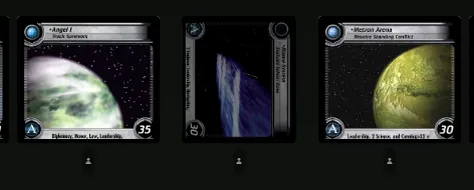
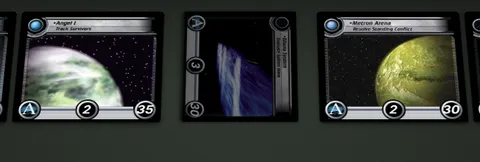
Scripts and docs: remove the last references to the away team badge of an empty away team (#1803)
* Scripts and docs: drop the away team badge of an empty away team from the clip crop and the glossary (#1573)

* fix: re-record the touch complete-mission clip with the corrected crop (follow-up for #1803)

Claude-Session: https://claude.ai/code/session_01XYBhPKRujXGmn674TPqUWj

---------

diff --git a/docs/ubiquitous-language.md b/docs/ubiquitous-language.md
@@ -193,7 +193,7 @@ is "open" or "closed", never "stacked".
 | the five missions in a row | `MissionSlot`, `MISSION_SLOTS = 5` | The row always has five slots, even for a deck with fewer missions. See [section 7](#7-names-kept-and-why). |
 | a ship in line with a mission | `ShipRowLocation`, `zone: 'shipRow'` | Addressed by mission index. See [section 7](#7-names-kept-and-why). |
 | aboard a ship | `CrewLocation`, `zone: 'crew'`, `CardInstance.crew` | Addressed by the ship's own id, so a ship move keeps its crew. |
-| away team (personnel at a planet mission) | `MissionPileLocation`, pile `'awayTeam'`, `MissionSlot.awayTeam` | The pair of `crew`, the personnel aboard a ship. The drop target id is `mission-pile-awayTeam-<index>` and the label is "Away team". **The code uses the one name at every mission type**, so it reads wrong at a headquarters mission and at a space mission, where the rulebook has no away team. The owner accepts this: the pile is the same place at every mission, and one name is clearer than three. |
+| away team (personnel at a planet mission) | `MissionPileLocation`, pile `'awayTeam'`, `MissionSlot.awayTeam` | The pair of `crew`, the personnel aboard a ship. The drop target is the mission's bottom half, `mission-on-<index>`; `mission-pile-awayTeam-<index>` is the `data-testid` of the away team badge, which is not a drop target (#924) and shows only while the away team holds a card (#1565). The label is "Away team". **The code uses the one name at every mission type**, so it reads wrong at a headquarters mission and at a space mission, where the rulebook has no away team. The owner accepts this: the pile is the same place at every mission, and one name is clearer than three. |
 | overcome dilemmas beneath the mission | `MissionPileLocation`, pile `'underMission'` | The UI label is "Under the mission". On the table, a drop on the top half of the mission card, `mission-under-<index>` (#871, #917), puts a dilemma here. During a dilemma drag the half reads "Under", and "Overcome" in the facing phase of the attempt layout (#1424). |
 | play and place (a card placed on another card) | `PlacedOnLocation`, `CardInstance.placedOn`, `findPlacedOnTarget`, `placedOnTargets`, `targetId` | The code held the noun "host" for the card underneath. "Host" is not a rulebook word, so #840 removed it: every comment and label says "the card it is placed on", and no new noun took its place. The stack is one level deep. On the table, a drop on the bottom half of the mission card, `mission-on-<index>` (#871, #917), places a dilemma on the mission. During a dilemma drag the half reads "On", and "Place on" in the facing phase of the attempt layout (#1424). The badge strip of a mission splits its placed cards by type (#1081): the dilemmas count in a badge with the dual icon, and every other card in a badge with the event icon. Their panels are the `PanelLocation`s `'onDilemmas'` and `'onEvents'`, a filter of `placedOn` by `card.type` and not a zone of their own; a core or brig card keeps one panel, `'on'`. The mission card also shows the last 3 cards of each group as small art crops in a strip on its edge (#1099): the events on the left, the dilemmas on the right; the strips are not drop targets, a tap opens the group's panel, and they turn with a completed mission. |
 | completed mission | `MissionSlot.completed`, action `setMissionCompleted`, a double-tap on the mission card and the focus button `mission-toggle-<i>` of `MissionRow` (#991, #1059) | A double-tap (two taps within `DOUBLE_TAP_MS`, 250 ms) toggles it. A completed mission shows its card darker and turned 90° clockwise inside its slot (#1060), and its card's label ends in ", completed". The focus button, visually hidden until it has keyboard focus, reads "Mark <name> complete" or "Mark <name> not complete". Completing a mission scores nothing automatically: the player changes the score by hand. |
